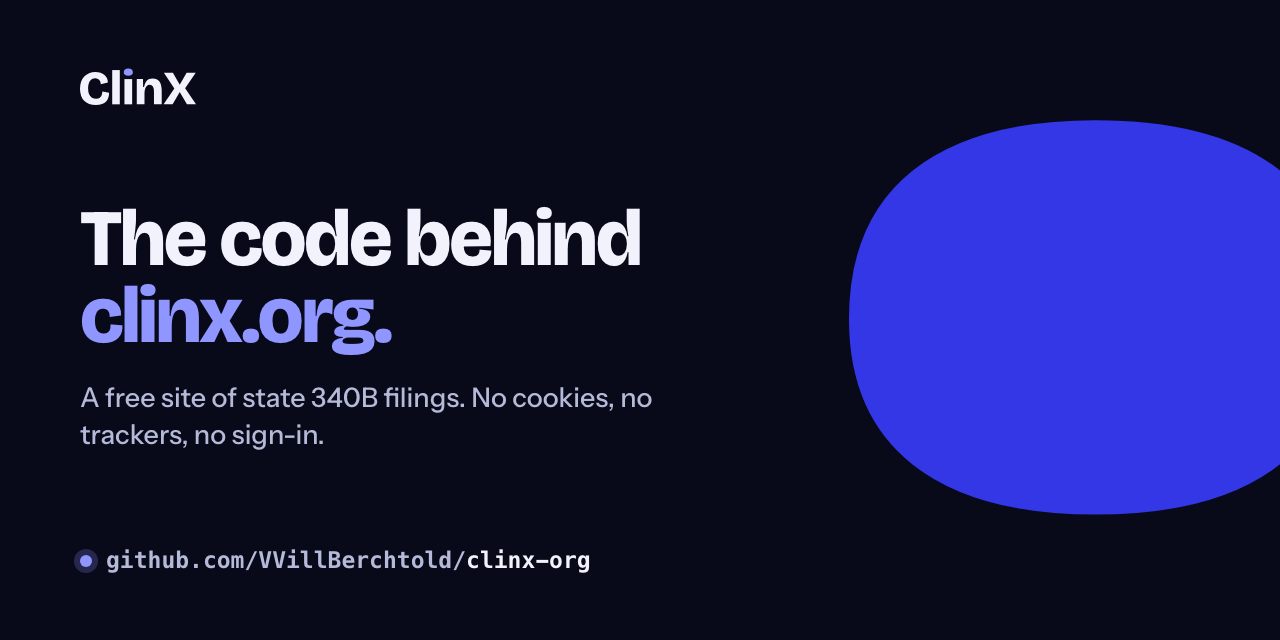
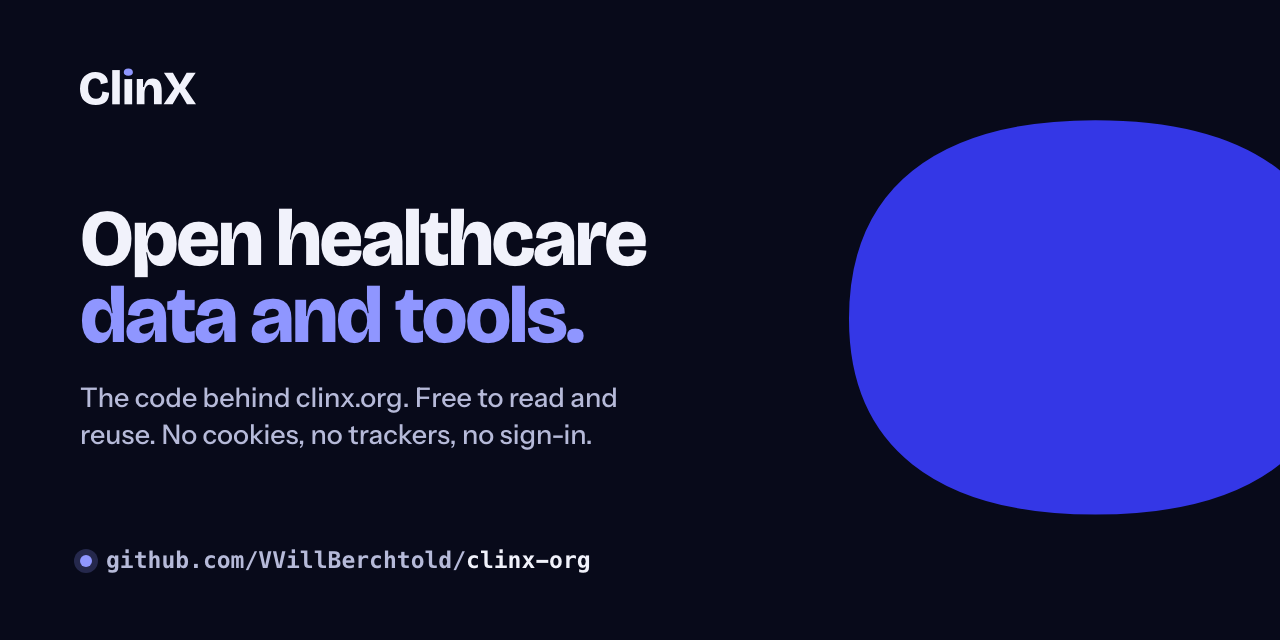
Brand: the clinx-org share card speaks for ClinX, not only 340B
The owner: the cards read as if ClinX were only the 340B tool. This
repository is the site for every tool, so its card now says what ClinX is.

Changed region(s): [[0.0625, 0.3125, 0.5312, 0.5625], [0.0625, 0.5938, 0.5, 0.7188]]

diff --git a/scripts/brand/repo-cards.html b/scripts/brand/repo-cards.html
@@ -51,8 +51,8 @@ p { font: 500 27px/1.35 'Instrument Sans', sans-serif; color: #b6bad9; margin-to
 <section id="clinx-org">
   <div class="say">
     <img class="mark" src="../../public/brand/clinx-wordmark-on-dark.svg" alt="ClinX">
-    <h1>The code behind <span>clinx.org.</span></h1>
-    <p>A free site of state 340B filings. No cookies, no trackers, no sign-in.</p>
+    <h1>Open healthcare <span>data and tools.</span></h1>
+    <p>The code behind clinx.org. Free to read and reuse. No cookies, no trackers, no sign&#8209;in.</p>
     <div class="where"><i></i><span><b>github.com/VVillBerchtold/</b>clinx-org</span></div>
   </div>
   <img class="dot" src="../../public/brand/clinx-mark.svg" alt="">
